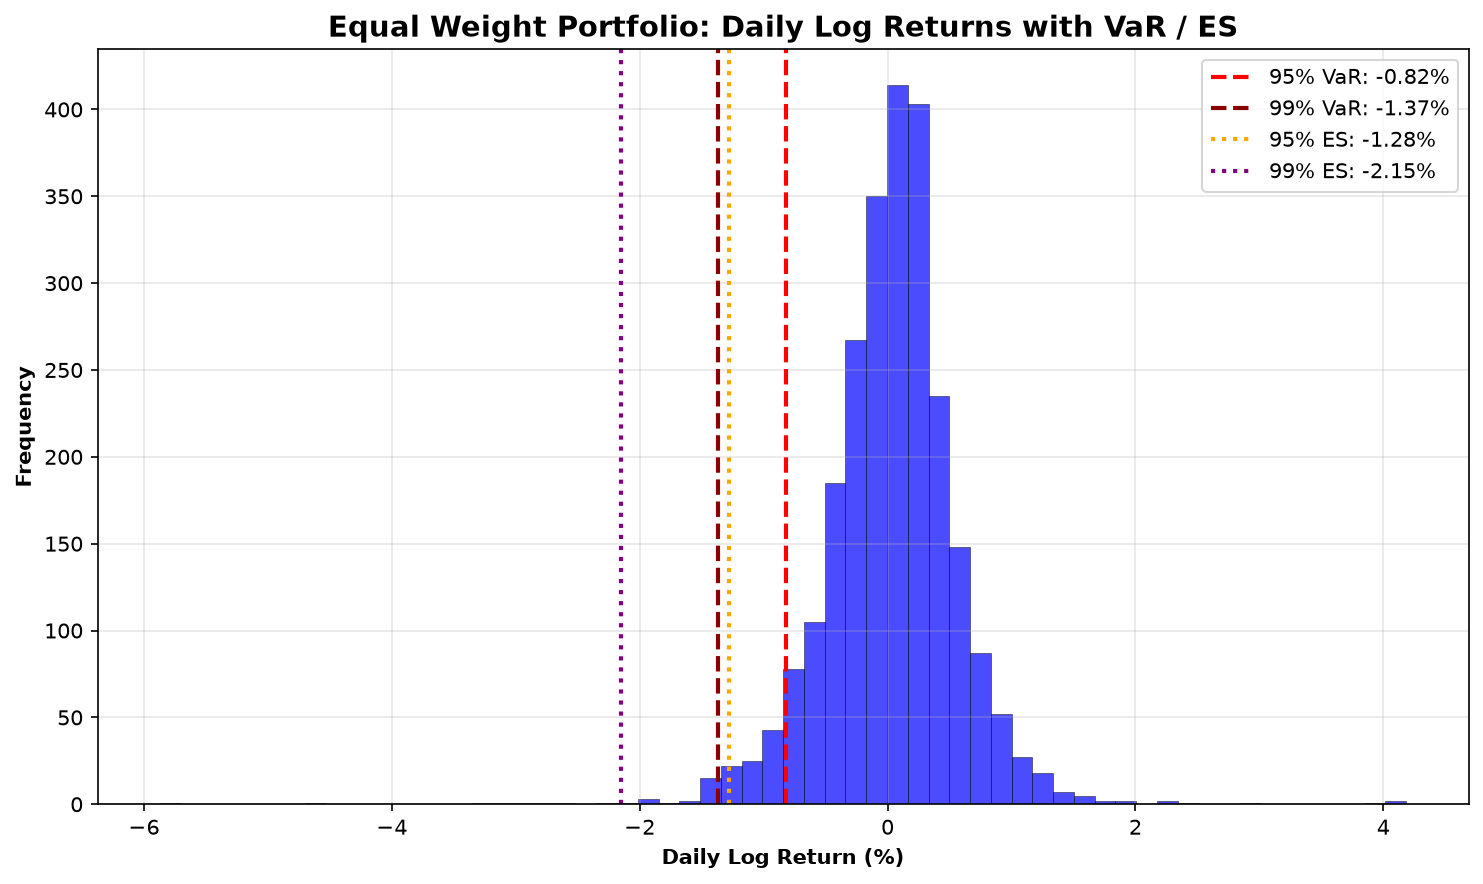
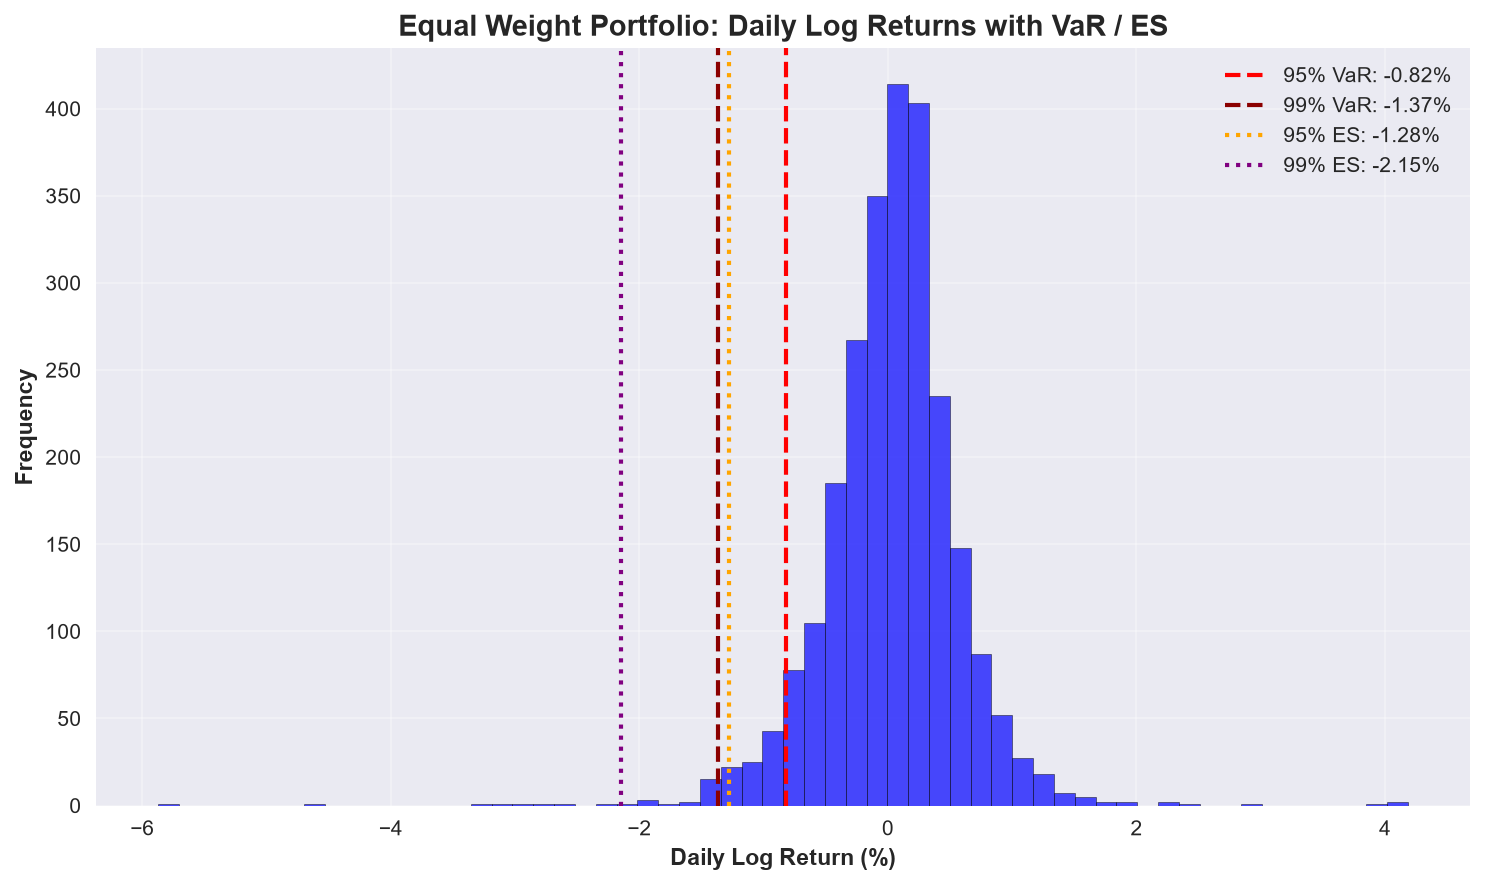
Phase 05: Monte Carlo Bootstrap (Daily)

diff --git a/src/05_monte_carlo.py b/src/05_monte_carlo.py
@@ -1,0 +1,178 @@
+# Phase 05: Monte Carlo Bootstrap (Daily)
+
+import pandas as pd
+import numpy as np 
+import matplotlib.pyplot as plt
+import os
+
+os.makedirs("outputs", exist_ok = True) # Ensures folders exists
+os.makedirs("data", exist_ok = True)
+
+port1_log_returns = pd.read_csv("data/01_port1_log_returns.csv", index_col = 0, parse_dates = True)["Equal Weight"] # Data import
+all_portfolio_log_returns = pd.read_csv("data/01_all_portfolio_log_returns.csv", index_col = 0, parse_dates = True)
+
+portfolio_value = 100_000
+n_simulations = 10_000 # This is the number of times we are looping over the simulation
+n_days = 1  # Daily horizon 
+
+def bootstrap_var_es(returns_series, n_sims = 10000, days = 1): # Defines a function that takes the number of days per sim & sims
+
+    simulated_returns = []
+    
+    for _ in range(n_sims):
+        sampled_returns = np.random.choice(returns_series, size = days, replace = True) # Randomly chooses n = days number of daily log returns
+        total_return = sampled_returns.sum()  # For days = 1, this is just a single daily return
+        simulated_returns.append(total_return)
+    
+    simulated_returns = np.array(simulated_returns)
+    
+    var_95 = np.percentile(simulated_returns, 5) # Bootstrap analytics
+    var_99 = np.percentile(simulated_returns, 1)
+    es_95 = simulated_returns[simulated_returns <= var_95].mean()
+    es_99 = simulated_returns[simulated_returns <= var_99].mean()
+    
+    return {
+        "var_95": var_95,
+        "var_99": var_99,
+        "es_95": es_95,
+        "es_99": es_99,
+        "simulated_returns": simulated_returns
+    }
+
+equal_weight_results = bootstrap_var_es(port1_log_returns, n_simulations, n_days) # Applying function
+bootstrap_var_95 = equal_weight_results["var_95"] # Storing results
+bootstrap_var_99 = equal_weight_results["var_99"]
+bootstrap_es_95 = equal_weight_results["es_95"]
+bootstrap_es_99 = equal_weight_results["es_99"]
+simulated_returns = equal_weight_results["simulated_returns"]
+
+comparison_results = [] # Repeating for all portfolio types
+for name in all_portfolio_log_returns.columns:
+    rets = all_portfolio_log_returns[name]
+    result = bootstrap_var_es(rets, n_simulations, n_days)
+    
+    comparison_results.append({
+        "Portfolio": name,
+        "95% VaR": result["var_95"],
+        "95% ES": result["es_95"],
+        "99% VaR": result["var_99"],
+        "99% ES": result["es_99"],
+        "VaR (€) 99%": abs(result["var_99"] * portfolio_value),
+        "ES (€) 99%": abs(result["es_99"] * portfolio_value)
+    })
+
+df_compare = pd.DataFrame(comparison_results) # Data Frame of results
+
+historical_metrics = pd.read_csv("data/02_historical_metrics.csv") # Importing all previous findings for comparison 
+hist_var_95 = historical_metrics["95% VaR"].iloc[0]
+hist_var_99 = historical_metrics["99% VaR"].iloc[0]
+hist_es_95 = historical_metrics["95% ES"].iloc[0]
+hist_es_99 = historical_metrics["99% ES"].iloc[0]
+
+normal_metrics = pd.read_csv("data/03_normal_metrics.csv")
+norm_var_95 = normal_metrics["95% VaR"].iloc[0]
+norm_var_99 = normal_metrics["99% VaR"].iloc[0]
+norm_es_95 = normal_metrics["95% ES"].iloc[0]
+norm_es_99 = normal_metrics["99% ES"].iloc[0]
+
+student_t_metrics = pd.read_csv("data/04_student_t_metrics.csv")
+t_var_95 = student_t_metrics["95% VaR"].iloc[0]
+t_var_99 = student_t_metrics["99% VaR"].iloc[0]
+t_es_95 = student_t_metrics["95% ES"].iloc[0]
+t_es_99 = student_t_metrics["99% ES"].iloc[0]
+
+print("=" * 60) # Print Section
+print("Phase 05: Monte Carlo Bootstrap (Daily)")
+print("=" * 60)
+print(f"\nPortfolio: Equal Weight")
+print(f"Notional Value: €{portfolio_value:,}")
+print(f"Simulations: {n_simulations:,}")
+print(f"Days per Simulation: {n_days}")
+print(f"Period: 2016-01-01 to 2025-12-31\n")
+print("-" * 60)
+
+print(f"\n95% Bootstrap VaR:                  {bootstrap_var_95:>8.2%}")
+print(f"99% Bootstrap VaR:                  {bootstrap_var_99:>8.2%}")
+print(f"95% Bootstrap ES:                   {bootstrap_es_95:>8.2%}")
+print(f"99% Bootstrap ES:                   {bootstrap_es_99:>8.2%}\n")
+print("-" * 60)
+
+print(f"\n{'Metric':<20} {'Historical':>12} {'Normal':>12} {'Student-t':>12} {'Bootstrap':>12}\n")
+print(f"{'95% VaR':<20} {hist_var_95:>12.2%} {norm_var_95:>12.2%} {t_var_95:>12.2%} {bootstrap_var_95:>12.2%}")
+print(f"{'99% VaR':<20} {hist_var_99:>12.2%} {norm_var_99:>12.2%} {t_var_99:>12.2%} {bootstrap_var_99:>12.2%}")
+print(f"{'95% ES':<20} {hist_es_95:>12.2%} {norm_es_95:>12.2%} {t_es_95:>12.2%} {bootstrap_es_95:>12.2%}")
+print(f"{'99% ES':<20} {hist_es_99:>12.2%} {norm_es_99:>12.2%} {t_es_99:>12.2%} {bootstrap_es_99:>12.2%}")
+
+print("\n" + "-" * 60 + "\n")
+print(df_compare.round(4).to_string(index = False))
+print("\n" + "-" * 60)
+
+plt.figure(figsize = (10, 6)) # Plot 1: Distribution of simulated daily returns 
+plt.hist(simulated_returns * 100, bins = 60, color = "blue", alpha = 0.7, edgecolor = "black", linewidth = 0.3)
+plt.axvline(bootstrap_var_95 * 100, color = "orange", linestyle = "--", linewidth = 2, label = f"95% VaR: {bootstrap_var_95:.2%}")
+plt.axvline(bootstrap_var_99 * 100, color = "red", linestyle = "--", linewidth = 2, label = f"99% VaR: {bootstrap_var_99:.2%}")
+plt.axvline(bootstrap_es_95 * 100, color = "darkorange", linestyle = "-", linewidth = 2, label = f"95% ES: {bootstrap_es_95:.2%}")
+plt.axvline(bootstrap_es_99 * 100, color = "darkred", linestyle = "-", linewidth = 2, label = f"99% ES: {bootstrap_es_99:.2%}")
+plt.xlabel("Simulated Daily Log Return (%)", fontweight = "bold")
+plt.ylabel("Frequency", fontweight = "bold")
+plt.title("Equal Weight: Monte Carlo Bootstrap Distribution (10,000 Simulations)", fontsize = 14, fontweight = "bold")
+plt.legend()
+plt.grid(alpha = 0.3)
+plt.tight_layout()
+plt.savefig("outputs/05_bootstrap_distribution.png", dpi = 150, bbox_inches = "tight")
+plt.show()
+
+plt.figure(figsize = (10, 6)) # Plot 2: Comparison of VaR
+metrics = ["95% VaR", "99% VaR"]
+historical_vals = [hist_var_95 * 100, hist_var_99 * 100]
+normal_vals = [norm_var_95 * 100, norm_var_99 * 100]
+t_vals = [t_var_95 * 100, t_var_99 * 100]
+bootstrap_vals = [bootstrap_var_95 * 100, bootstrap_var_99 * 100]
+x_pos = np.arange(len(metrics))
+width = 0.2
+plt.bar(x_pos - 1.5*width, historical_vals, width, label = "Historical", color = "blue", alpha = 0.7, edgecolor = "black")
+plt.bar(x_pos - 0.5*width, normal_vals, width, label = "Normal", color = "red", alpha = 0.7, edgecolor = "black")
+plt.bar(x_pos + 0.5*width, t_vals, width, label = "Student-t", color = "green", alpha = 0.7, edgecolor = "black")
+plt.bar(x_pos + 1.5*width, bootstrap_vals, width, label = "Bootstrap", color = "purple", alpha = 0.7, edgecolor = "black")
+plt.axhline(y = 0, color = "black", linewidth = 0.8)
+plt.xticks(x_pos, metrics, fontweight = "bold")
+plt.ylabel("Loss (%)", fontweight = "bold")
+plt.title("Equal Weight: VaR Comparison (All Models)", fontsize = 14, fontweight = "bold")
+plt.legend()
+plt.grid(axis = "y", alpha = 0.3)
+plt.tight_layout()
+plt.savefig("outputs/05_var_comparison.png", dpi = 150, bbox_inches = "tight")
+plt.show()
+
+plt.figure(figsize = (10, 6)) # Plot 3: Comparison of ES
+metrics = ["95% ES", "99% ES"]
+historical_vals = [hist_es_95 * 100, hist_es_99 * 100]
+normal_vals = [norm_es_95 * 100, norm_es_99 * 100]
+t_vals = [t_es_95 * 100, t_es_99 * 100]
+bootstrap_vals = [bootstrap_es_95 * 100, bootstrap_es_99 * 100]
+x_pos = np.arange(len(metrics))
+width = 0.2
+plt.bar(x_pos - 1.5*width, historical_vals, width, label = "Historical", color = "blue", alpha = 0.7, edgecolor = "black")
+plt.bar(x_pos - 0.5*width, normal_vals, width, label = "Normal", color = "red", alpha = 0.7, edgecolor = "black")
+plt.bar(x_pos + 0.5*width, t_vals, width, label = "Student-t", color = "green", alpha = 0.7, edgecolor = "black")
+plt.bar(x_pos + 1.5*width, bootstrap_vals, width, label = "Bootstrap", color = "purple", alpha = 0.7, edgecolor = "black")
+plt.axhline(y = 0, color = "black", linewidth = 0.8)
+plt.xticks(x_pos, metrics, fontweight = "bold")
+plt.ylabel("Loss (%)", fontweight = "bold")
+plt.title("Equal Weight: ES Comparison (All Models)", fontsize = 14, fontweight = "bold")
+plt.legend()
+plt.grid(axis = "y", alpha = 0.3)
+plt.tight_layout()
+plt.savefig("outputs/05_es_comparison.png", dpi = 150, bbox_inches = "tight")
+plt.show()
+
+results_df = pd.DataFrame({
+    "Portfolio": ["Equal Weight"],
+    "95% VaR": [bootstrap_var_95],
+    "99% VaR": [bootstrap_var_99],
+    "95% ES": [bootstrap_es_95],
+    "99% ES": [bootstrap_es_99]
+})
+
+results_df.to_csv("data/05_bootstrap_metrics.csv", index = False)
+df_compare.to_csv("data/05_bootstrap_comparison.csv", index = False)

diff --git a/src/03_normal.py b/src/03_normal.py
@@ -101,6 +101,8 @@ print("\n" + "-" * 60)
 x = np.linspace(port1_log_returns.min() * 100, port1_log_returns.max() * 100, 100)
 y_norm = norm.pdf(x / 100, mean_return, std_return) * 100
 
+plt.style.use("seaborn-v0_8")  # Plot style
+
 plt.figure(figsize = (10, 6)) # Plot 1: Comparing Var of Historical to normal 
 plt.hist(port1_log_returns * 100, bins = 60, density = True, color = "blue", alpha = 0.7, edgecolor = "black", linewidth = 0.3)
 plt.fill_between(x, 0, y_norm, color = "red", alpha = 0.15, label = "Normal Density")

diff --git a/src/04_student_t.py b/src/04_student_t.py
@@ -104,6 +104,8 @@ print("\n" + "-" * 60)
 x = np.linspace(port1_log_returns.min() * 100, port1_log_returns.max() * 100, 100) 
 y_t = t.pdf(x / 100, df, loc, scale) * 100
 
+plt.style.use("seaborn-v0_8")  # Plot style
+
 plt.figure(figsize = (10, 6)) # Plot 1: Showing Student-t distribution Var vs Historical
 plt.hist(port1_log_returns * 100, bins = 60, density = True, color = "blue", alpha = 0.7, edgecolor = "black", linewidth = 0.3)
 plt.fill_between(x, 0, y_t, color = "green", alpha = 0.15, label = "Student-t Density")

diff --git a/src/02_historical.py b/src/02_historical.py
@@ -59,6 +59,8 @@ print("-" * 60 + "\n")
 print(df_compare.round(4).to_string(index = False),"\n")
 print("-" * 60)
 
+plt.style.use("seaborn-v0_8")  # Plot style
+
 plt.figure(figsize = (10, 6)) # Plotting the ES & Var on a histogram 
 plt.hist(port1_log_returns * 100, bins = 60, color = "blue", alpha = 0.7, edgecolor = "black", linewidth = 0.3)
 plt.axvline(var_95 * 100, color = "red", linestyle = "--", linewidth = 2, label = f"95% VaR: {var_95:.2%}")
